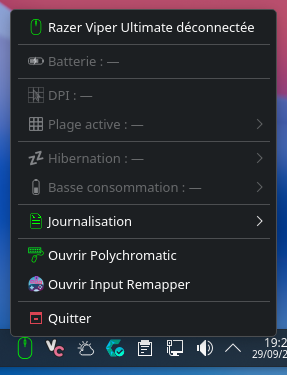
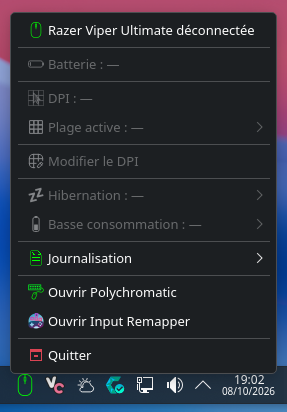
docs: update v1.2.0 documentation

diff --git a/tests/test_ui_status_view.py b/tests/test_ui_status_view.py
@@ -32,6 +32,7 @@ def _create_status_view() -> tuple[StatusView, FakeIndicator]:
     name_item = _create_action()
     battery_item = _create_action()
     dpi_item = _create_action()
+    dpi_edit_action = _create_action()
     stage_item = _create_action()
     idle_item = _create_action()
     low_battery_item = _create_action()
@@ -72,6 +73,7 @@ def _create_status_view() -> tuple[StatusView, FakeIndicator]:
         name_item=name_item,
         battery_item=battery_item,
         dpi_item=dpi_item,
+        dpi_edit_action=dpi_edit_action,
         stage_item=stage_item,
         idle_item=idle_item,
         low_battery_item=low_battery_item,
@@ -127,6 +129,7 @@ def test_show_disconnected_updates_status_and_disables_actions() -> None:
 
     assert not view.battery_item.isEnabled()
     assert not view.dpi_item.isEnabled()
+    assert not view.dpi_edit_action.isEnabled()
     assert not view.stage_item.isEnabled()
     assert not view.idle_item.isEnabled()
     assert not view.low_battery_item.isEnabled()
@@ -171,6 +174,7 @@ def test_show_connected_updates_status_from_mouse_state() -> None:
 
     assert view.battery_item.isEnabled()
     assert view.dpi_item.isEnabled()
+    assert view.dpi_edit_action.isEnabled()
     assert view.stage_item.isEnabled()
     assert view.idle_item.isEnabled()
     assert view.low_battery_item.isEnabled()

diff --git a/src/ui/status_view.py b/src/ui/status_view.py
@@ -22,6 +22,7 @@ class StatusView:
         name_item: QAction,
         battery_item: QAction,
         dpi_item: QAction,
+        dpi_edit_action: QAction,
         stage_item: QAction,
         idle_item: QAction,
         low_battery_item: QAction,
@@ -40,6 +41,7 @@ class StatusView:
         self.name_item = name_item
         self.battery_item = battery_item
         self.dpi_item = dpi_item
+        self.dpi_edit_action = dpi_edit_action
         self.stage_item = stage_item
         self.idle_item = idle_item
         self.low_battery_item = low_battery_item
@@ -95,6 +97,7 @@ class StatusView:
         for item in [
             self.battery_item,
             self.dpi_item,
+            self.dpi_edit_action,
             self.stage_item,
             self.idle_item,
             self.low_battery_item,
@@ -137,6 +140,7 @@ class StatusView:
         for item in [
             self.battery_item,
             self.dpi_item,
+            self.dpi_edit_action,
             self.stage_item,
             self.idle_item,
             self.low_battery_item,

diff --git a/tests/test_application.py b/tests/test_application.py
@@ -390,6 +390,7 @@ def test_create_status_view_passes_menu_and_charge_model_dependencies() -> None:
         name_item=widgets.name_item,
         battery_item=widgets.battery_item,
         dpi_item=widgets.dpi_item,
+        dpi_edit_action=widgets.dpi_edit_action,
         stage_item=widgets.stage_item,
         idle_item=widgets.idle_item,
         idle_items=widgets.idle_items,

diff --git a/src/app/application.py b/src/app/application.py
@@ -159,6 +159,7 @@ class Application(QObject):
             name_item=widgets.name_item,
             battery_item=widgets.battery_item,
             dpi_item=widgets.dpi_item,
+            dpi_edit_action=widgets.dpi_edit_action,
             stage_item=widgets.stage_item,
             idle_item=widgets.idle_item,
             idle_items=widgets.idle_items,

diff --git a/README.md b/README.md
@@ -51,7 +51,7 @@ It supports both **Wayland and X11** sessions and is designed to handle wireless
 ## Features
 
 - **Mouse status**: Monitor the mouse battery level, charging state, connection mode, and estimated charging time directly from the tray menu;
-- **DPI**: Select the mouse DPI from the default DPI stages configured on the mouse;
+- **DPI**: Select the active DPI stage, edit the current DPI, and configure the DPI stages directly from the application;
 - **Hibernation**: Configure the mouse hibernation timeout to control its power consumption while idle;
 - **Low-power mode**: Configure the battery threshold at which the mouse enters low-power mode;
 - **Notifications**: Receive notifications for low-battery thresholds, charging completion, and relevant connection or logging events;
@@ -130,6 +130,32 @@ Viper Ultimate Tray allows the active DPI stage to be selected directly from the
 Changing the selected stage updates the active DPI stage on the mouse. The corresponding DPI value is applied immediately, and the mouse's physical DPI indicator LED reflects the active stage.
 
 The DPI stage remains synchronized with the mouse in both directions. Selecting a stage in the application changes the mouse DPI and its physical indicator, while changing the DPI stage using the physical DPI button on the mouse updates the active stage displayed in the tray menu.
+
+The **Modifier le DPI** action opens a dedicated window for editing the current DPI and the DPI stage configuration.
+
+![Viper Ultimate Tray DPI stage selected](docs/screenshots/set-dpi/dpi-stage-selected.png)
+
+The **DPI courant** section displays the current X and Y DPI values. The two axes can be adjusted independently or linked together using the lock button. Changing the current DPI manually deselects any selected DPI stage, since the current DPI no longer corresponds to the configured value of that stage.
+
+![Viper Ultimate Tray current DPI changed](docs/screenshots/set-dpi/current-dpi-changed.png)
+
+The **Plages DPI** section displays the DPI stages configured on the mouse. Selecting a stage in this section temporarily synchronizes the current DPI values with that stage and marks it as the selected stage. The stage selection is only an editing state in this window. It becomes the active DPI stage on the mouse when the changes are saved.
+
+The **Éditer** button opens the DPI stage editor, where stages can be added or removed and their DPI values can be changed.
+
+![Viper Ultimate Tray DPI stage editor](docs/screenshots/set-dpi/editing-dpi-stages-unchanged.png)
+
+The stage editor works on a local copy of the configuration. Changes can therefore be reviewed before they are applied to the mouse.
+
+![Viper Ultimate Tray DPI stage editor with a stage removed](docs/screenshots/set-dpi/removed-last-stage-editing.png)
+
+After returning to the main DPI window, the updated stage configuration is displayed while the current stage selection is preserved when possible.
+
+![Viper Ultimate Tray edited DPI settings](docs/screenshots/set-dpi/set-dpi-edited.png)
+
+Changes made in the DPI editor are applied to the mouse when **Enregistrer** is pressed. **Annuler** discards the changes made in the editor.
+
+The active DPI stage, the configured DPI stages, and the current DPI are handled independently. The current DPI can therefore differ from the DPI value configured for the active stage, for example when the current X and Y DPI have been manually changed.
 
 ### Hibernation
 
@@ -303,7 +329,7 @@ This separation keeps the graphical interface responsive while allowing hardware
 
 Viper Ultimate Tray is organized around a central `Application` object that coordinates mouse monitoring, device control, battery logging, charge-data analysis, notifications, and the KDE Plasma interface.
 
-![Architecture](docs/architecture-viper-ultimate-tray.svg)
+![Architecture](docs/architecture-viper-ultimate-tray-v1.2.0.svg)
 
 `MousePoller` continuously retrieves the complete mouse state through OpenRazer and provides it to the application. `MouseController` handles changes to the mouse configuration, while `StatusView` updates the tray indicator and menu from the current state.
 
